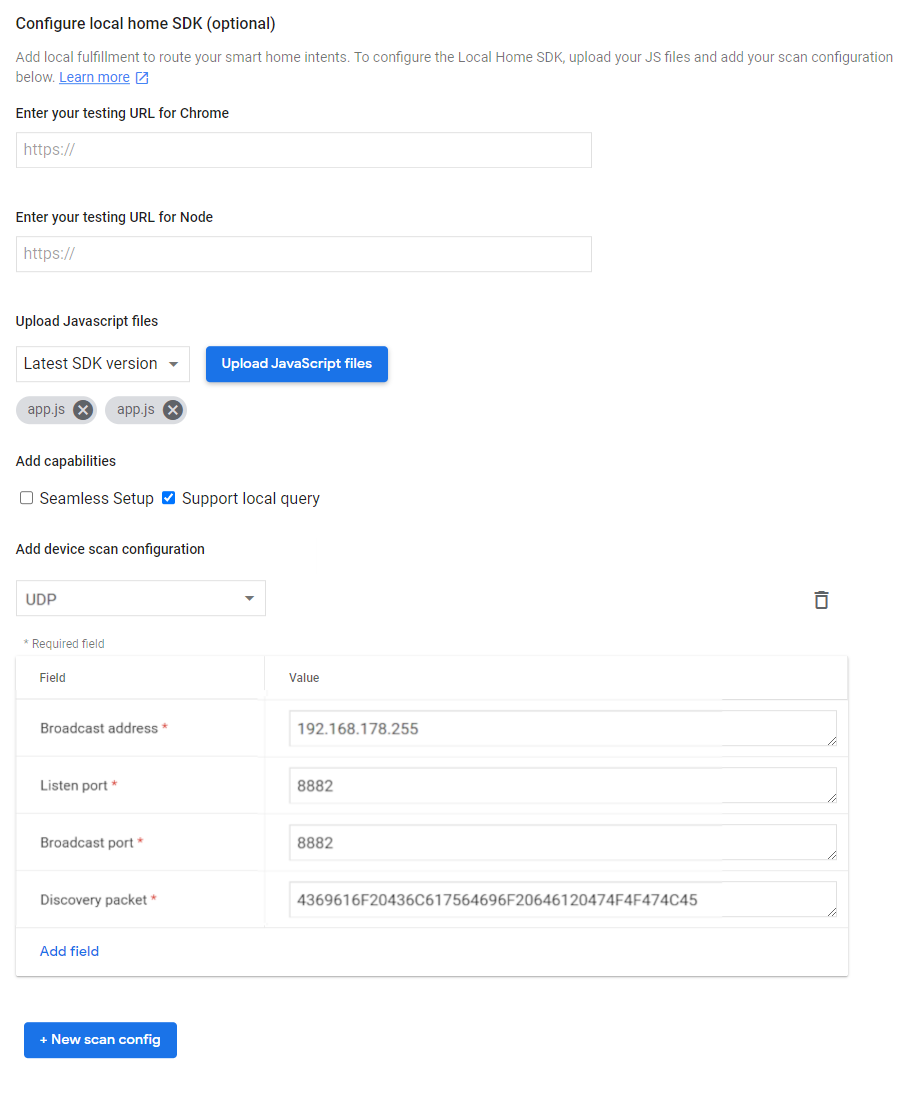
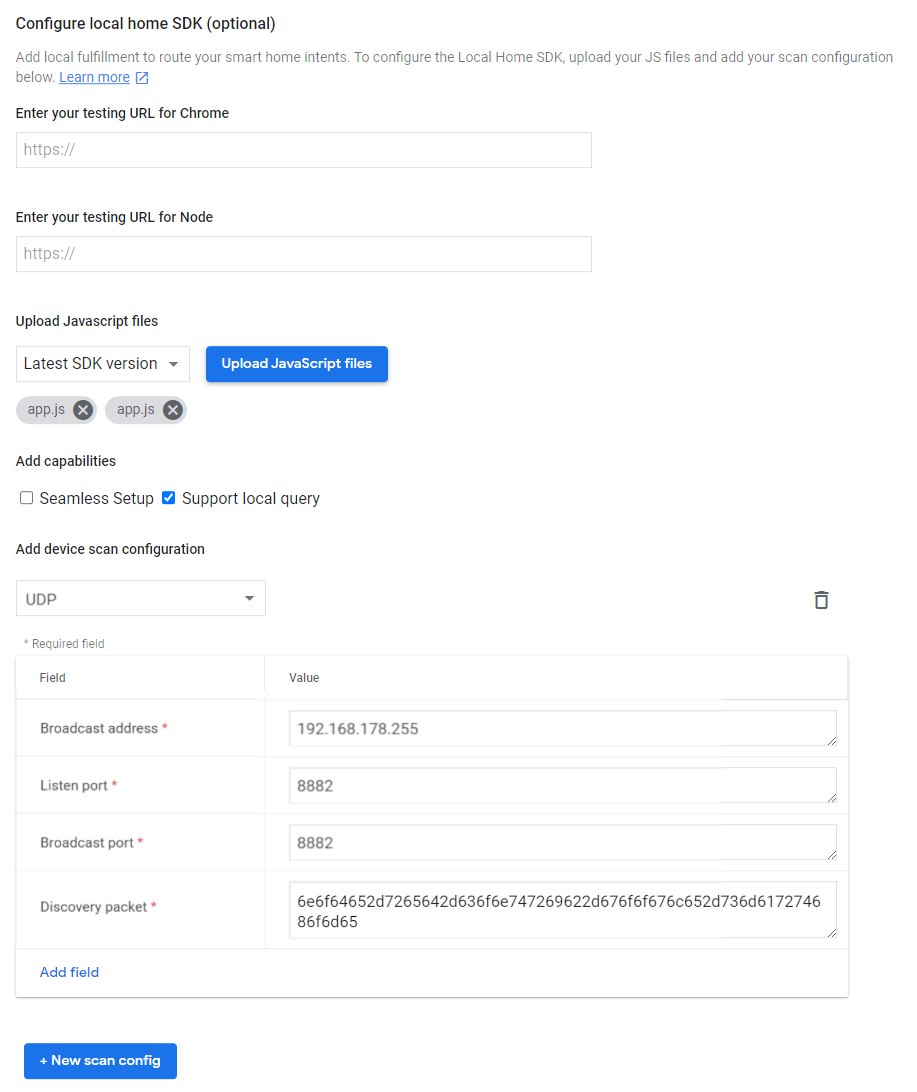
Scan packet to node-red-contrib-google-smarthome

diff --git a/google-smarthome.html b/google-smarthome.html
@@ -172,11 +172,6 @@
                 <input type="text" id="node-config-input-local_scan_port" data-i18n="[placeholder]googlesmarthome.placeholder.local_scan_port">
             </div>
 
-            <div id="local_scan_packet" class="form-row">
-                <label for="node-config-input-local_scan_packet"><i class="fa fa-globe"></i> <span data-i18n="googlesmarthome.label.local_scan_packet"></span></label>
-                <input type="text" id="node-config-input-local_scan_packet" data-i18n="[placeholder]googlesmarthome.placeholder.local_scan_packet">
-            </div>
-
             <div class="form-row">
                 <label for="node-config-input-localport"><i class="fa fa-globe"></i> <span data-i18n="googlesmarthome.label.localport"></span></label>
                 <input type="text" id="node-config-input-localport" data-i18n="[placeholder]googlesmarthome.placeholder.localport">
@@ -311,9 +306,6 @@
                 local_scan_port: {
                     required: false, validate: RED.validators.number(true)
                 },
-                local_scan_packet: {
-                    value:"", required: false
-                },
                 localport: {
                     required: false, validate: RED.validators.number(true)
                 },
@@ -439,11 +431,6 @@
                     let scan_type = $('#node-config-input-local_scan_type').val();
                     if (scan_type) {
                         $('#local_fulfillment').show();
-                        if (scan_type === "UDP") {
-                            $('#local_scan_packet').show();
-                        } else {
-                            $('#local_scan_packet').hide();
-                        }
                     } else {
                         $('#local_fulfillment').hide();
                     }

diff --git a/lib/SmartHome.js b/lib/SmartHome.js
@@ -43,7 +43,7 @@ const userId = '0';
  */
 class GoogleSmartHome {
     constructor(mgmtNode, nodeId, userDir, httpNodeRoot, useGoogleLogin, googleClientId, emails, username, password, accessTokenDuration, usehttpnoderoot,
-        httpPath, httpPort, localScanType, localScanPort, localScanPacket, httpLocalPort, nodeRedUsesHttps, ssloffload, publicKey, privateKey, jwtkeyFile, clientid,
+        httpPath, httpPort, localScanType, localScanPort, httpLocalPort, nodeRedUsesHttps, ssloffload, publicKey, privateKey, jwtkeyFile, clientid,
         clientsecret, reportStateInterval, requestSyncDelay, setStateDelay, debug, debug_function, error_function) {
 
         this.auth                   = new Auth(this);
@@ -60,7 +60,6 @@ class GoogleSmartHome {
         this._httpPort              = httpPort;
         this._localScanType         = localScanType || '';
         this._localScanPort         = localScanPort;
-        this._localScanPacket       = localScanPacket;
         this._httpLocalPort         = httpLocalPort;
         this._sslOffload            = ssloffload;
         this._publicKey             = publicKey;
@@ -78,6 +77,7 @@ class GoogleSmartHome {
         this._httpPath              = this.Path_join((usehttpnoderoot ? this._httpNodeRoot || '/' : '/'), this._httpPath);
         this.debug_function         = debug_function;
         this.error_function         = error_function;
+        this._localScanPacket       = 'node-red-contrib-google-smarthome';
         this._localUDPServer        = null;
         this._localDiscoveryPort    = null;
         this._localExecutionPort    = null;

diff --git a/locales/it_IT/google-smarthome.html b/locales/it_IT/google-smarthome.html
@@ -41,7 +41,6 @@
     <b>Impostazioni per il Local fulfillment</b><br>
     <code>Tipo di scansione</code>: Il protocollo di scansione da usare. Deve corrispondere a quello configurato in Google.<br>
     <code>"Porta per la scansione</code>: Un numero di porta per la risposta della scansione. Per la scansione di tipo UDP, Deve corrispondere a quanto configurato nel campo "Broadcast Port" in Google. Se vuoto, userà la stessa porta del campo "Porta HTTP", se definito, altrimenti userà la stessa porta usata da Node-RED.<br>
-    <code>Discovery Packet</code>: Dati da ricevere nel messaggio di UDP broadcast. Valido soltanto per il tipo di scansione UDP. Deve corrispondere a quanto configurato nel campo "Discovery Packet" in Google, ma non in formato esadecimale.<br>
     <code>Porta HTTP</code>: Un numero di porta per ricevere i messaggi non HTTPS. Se vuoto, userà la stessa porta usata da Node-RED.
                             Se la cifratura HTTPS è usata da Node-RED oppure è configurato un httpAdminRoot, è necessario specificare una porta, altrimenti è sicuro lasciare questo campo vuoto.
                             Se non vuoto, non creare una regola di inoltro dal router per questa porta!

diff --git a/locales/en-US/google-smarthome.html b/locales/en-US/google-smarthome.html
@@ -42,7 +42,6 @@
     <b>Local fulfillment Settings</b><br>
     <code>Scan Type</code>: The discovery protocol to use. It must match the Google configuration.<br>
     <code>Discovery Port</code>: A port number for the Discovery response. For the UDP scan type, it must match the "Broadcast Port" Google configuration. If empty, it will use the same port as HTTP port if defined, otherwise it will use the same port as Node-RED.<br>
-    <code>Discovery Packet</code>: Payload to receive in the UDP broadcast. Only for the UDP scan type. It must correspond to the value of the "Discovery Packet" Google configuration, but not in HEX format.<br>
     <code>HTTP port</code>: A port number to use for local fulfillment. If empty, it will use the same port as Node-RED.
                             If you use Node-RED's built-in HTTPS encryption or you have a httpAdminRoot set, you need to
                             set a port. Don't create a forwarding rule for this port!

diff --git a/google-smarthome.js b/google-smarthome.js
@@ -61,7 +61,6 @@ module.exports = function (RED) {
                 parseInt(config.port || '0'),
                 config.local_scan_type || '',
                 parseInt(config.local_scan_port || '0'),
-                config.local_scan_packet || '',
                 parseInt(config.localport || '0'),
                 RED.server instanceof https.Server,
                 config.ssloffload,
